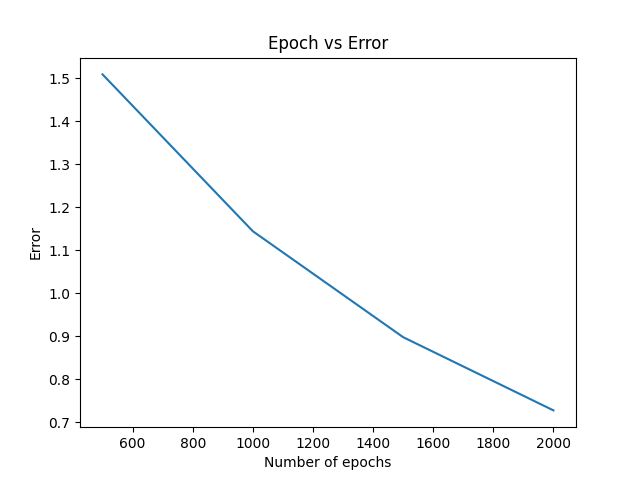
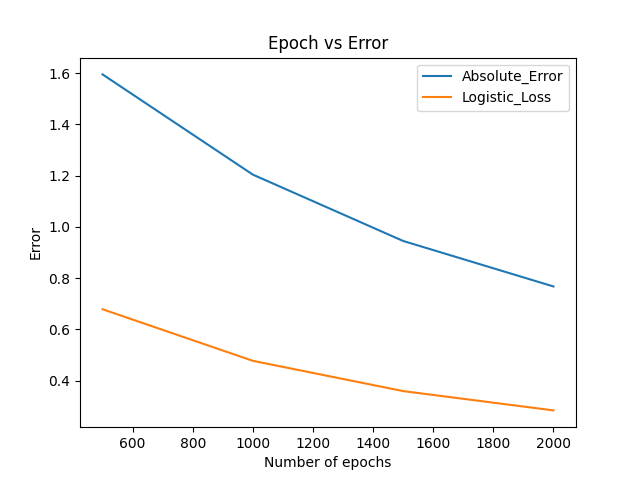
Add logistic loss

diff --git a/neural_net.py b/neural_net.py
@@ -5,14 +5,16 @@ def sigmoid(x):
     return 1/(1 + np.exp(-x))
 
 class NeuralNetwork:
-    def __init__(self, x, y):
+    def __init__(self, x, y,alpha):
+        np.random.seed(10)
         self.input      = x
         self.weights1   = np.random.rand(self.input.shape[1],4) 
         self.weights2   = np.random.rand(4,1) 
-        self.bias1       = np.random.rand(4,1)    
-        self.bias2       = np.random.rand(4,1)              
+        self.bias1      = np.random.rand(4,1)    
+        self.bias2      = np.random.rand(4,1)              
         self.y          = y
-        self.a2     = np.zeros(y.shape) #output layer
+        self.a2         = np.zeros(y.shape) #output layer
+        self.learning_rate = alpha
 
     def feedforward(self):
         self.z1 = np.dot(self.input, self.weights1) + self.bias1 #1 hidden layer #4X4
@@ -29,10 +31,14 @@ class NeuralNetwork:
         self.db1 = 1/(self.y.shape[0]) * np.sum(self.dz1,axis=1,keepdims=True)
 
     def gradient_descent(self):
-        self.weights1 = self.weights1 - 0.01*self.dw1 #update the weights with the learning rate as 0.01
-        self.bias1 = self.bias1 - 0.01*self.db1 #update the bias terms with the learning rate as 0.01
-        self.weights2 = self.weights2 - 0.01*self.dw2
-        self.bias2 = self.bias2 - 0.01*self.db2
+        self.weights1 = self.weights1 - self.learning_rate*self.dw1 #update the weights with the learning rate
+        self.bias1 = self.bias1 - self.learning_rate*self.db1 #update the bias terms with the learning rate
+        self.weights2 = self.weights2 - self.learning_rate*self.dw2
+        self.bias2 = self.bias2 - self.learning_rate*self.db2
+
+    def calculate_loss(self,y,y_cap):
+        loss = - (1/self.input.shape[1]) * np.sum(y*np.log(y_cap) + (1-y)*np.log(1-y_cap))
+        return loss
 
 if __name__ == "__main__":
     X = np.array([[0, 0, 1],
@@ -40,38 +46,38 @@ if __name__ == "__main__":
                 [1, 0, 1],
                 [1, 1, 1]])
     y = np.array([[0], [1], [1], [0]])
-    nn = NeuralNetwork(X, y)
+    sigmoid_vals = []
+    inputli = []
+    logistic_loss = []
+    nn = NeuralNetwork(X, y, alpha=0.01)
 
     for i in range(2000):
         nn.feedforward()
         nn.backpropagation()
         nn.gradient_descent()
         if i==500:
-            print("Prediction at 500 epochs:")
-            print(nn.a2)
             error1 = abs(y - nn.a2)
+            logistic_loss.append(nn.calculate_loss(y,nn.a2))
             print("Error at 500: "+str(np.sum(error1)))
         elif i==1000:
-            print("Prediction at 1000 epochs:")
-            print(nn.a2)
             error2 = abs(y - nn.a2)
+            logistic_loss.append(nn.calculate_loss(y,nn.a2))
             print("Error at 1000: "+str(np.sum(error2)))
         elif i==1499:
-            print("Prediction at 1500 epochs:")
-            print(nn.a2)
             error3 = abs(y - nn.a2)
+            logistic_loss.append(nn.calculate_loss(y,nn.a2))
             print("Error at 1500: "+str(np.sum(error3)))
         elif i==1999:
-            print("Prediction at 2000 epochs:")
-            print(nn.a2)
             error4 = abs(y - nn.a2)
+            logistic_loss.append(nn.calculate_loss(y,nn.a2))
             print("Error at 2000: "+str(np.sum(error4)))
-
 labels = [500,1000,1500,2000]
 error_terms = [np.sum(error1), np.sum(error2), np.sum(error3), np.sum(error4)]
 plt.plot(labels,error_terms)
+# plt.legend("Absolute_Error")
+plt.plot(labels,logistic_loss)
+plt.legend(["Absolute_Error","Logistic_Loss"])
 plt.xlabel("Number of epochs")
 plt.ylabel("Error")
 plt.title("Epoch vs Error")
 plt.savefig(r"C:\Sanchari\UBMS\Self_Projects\Neural_Network\Epoch_vs_Error.png")
-plt.show()
